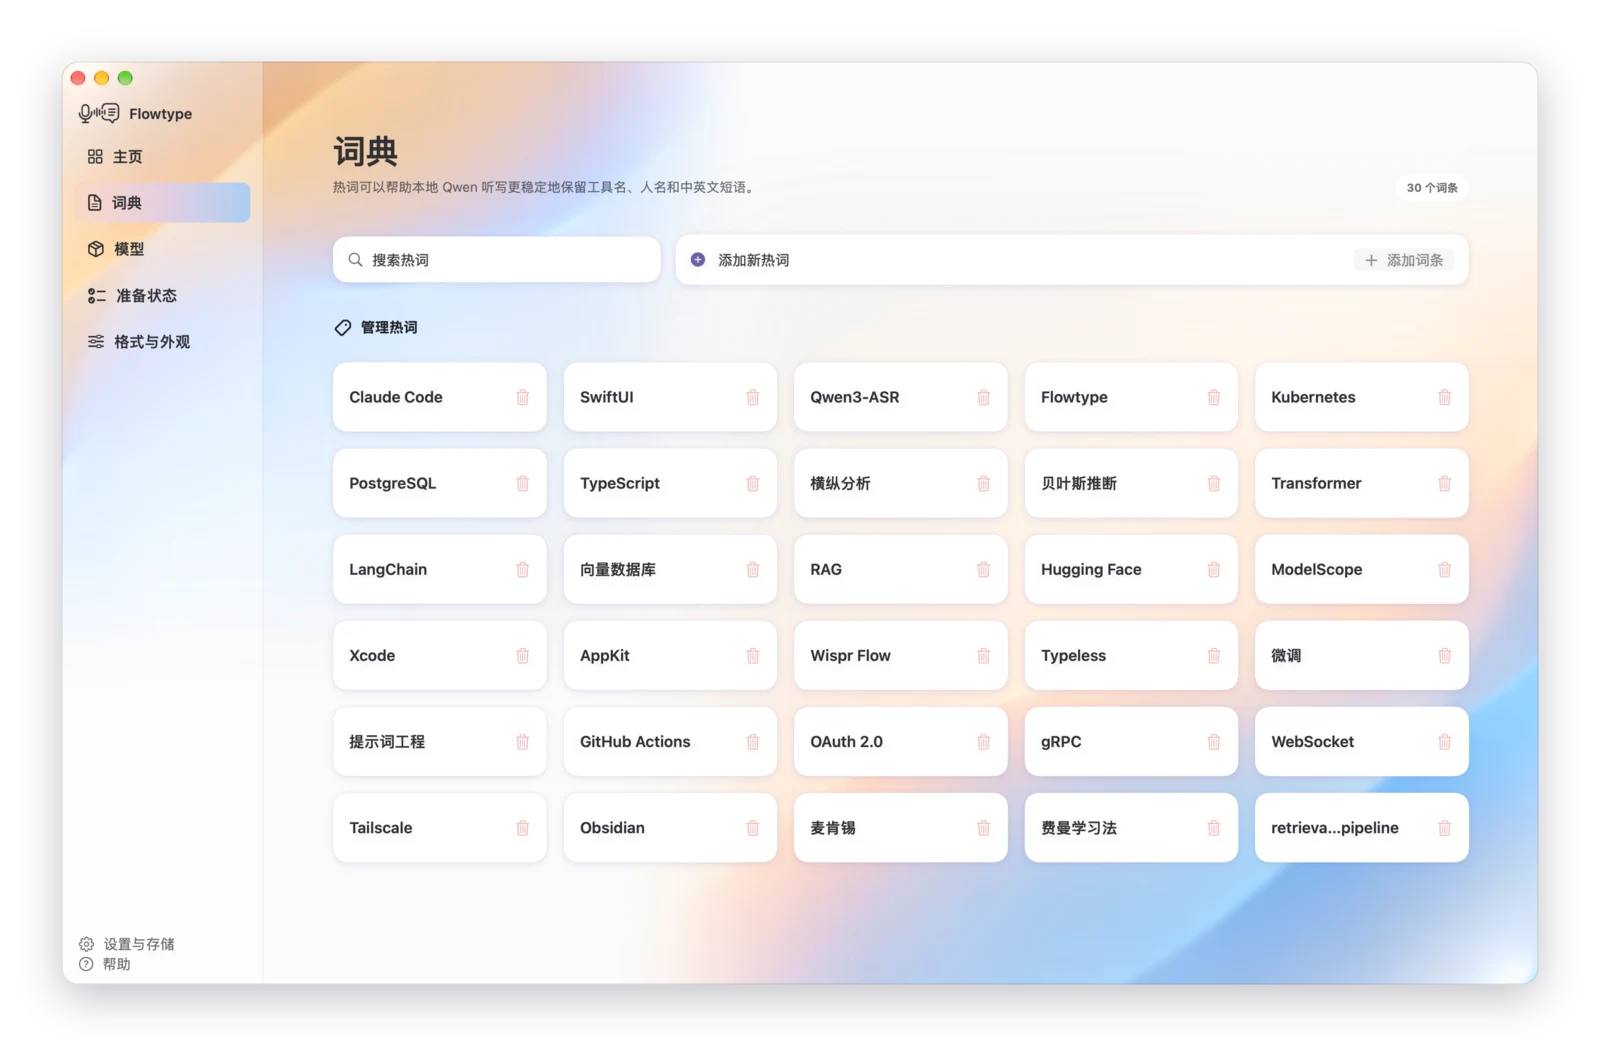
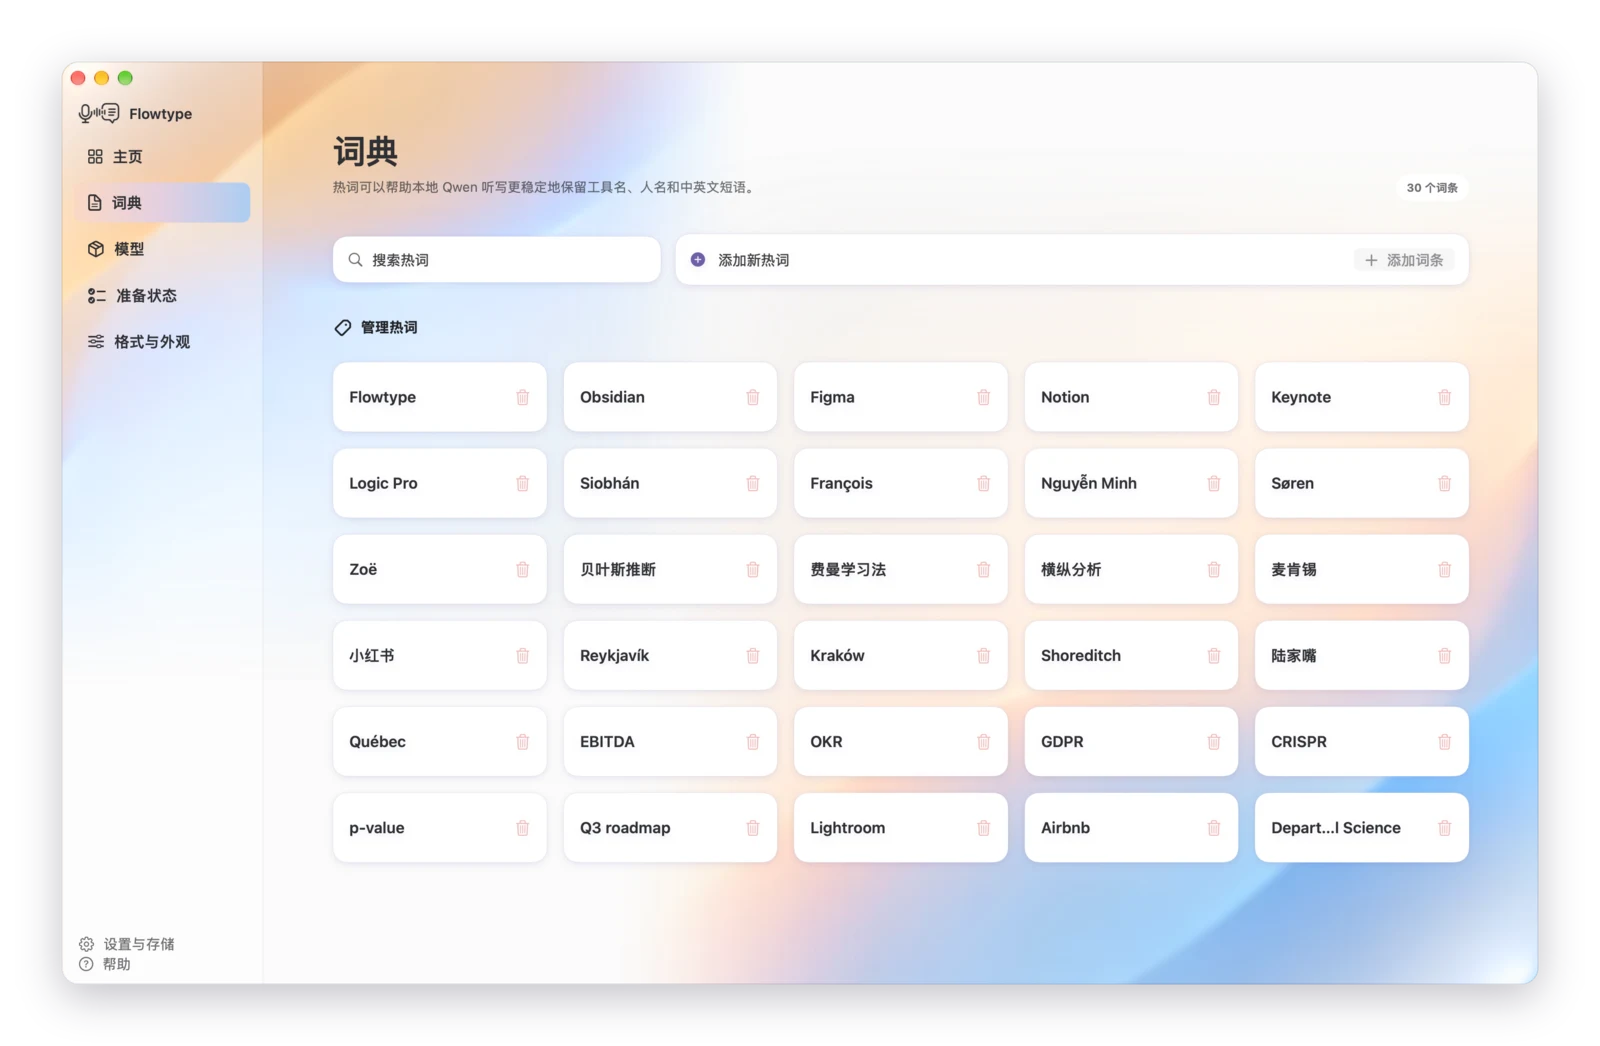
docs: put the final launch films in the READMEs and match their wording
Swap in the final 57 s launch films, lead the hero with Back to flow, say
30+ languages instead of Chinese + English only, use everyday names and
terms on the Dictionary screenshot, and note the Suno music in the films'
provenance. Also removes the Home page subtitle.

diff --git a/Tests/VoiceInputAppTests/UISnapshotRenderTests.swift b/Tests/VoiceInputAppTests/UISnapshotRenderTests.swift
@@ -126,6 +126,8 @@ private enum ReadinessFixture {
 
 private struct FixtureOptions {
     var hasHistory = true
+    /// History with failed, possibly truncated and recovered rows (QA of those row styles).
+    var historyShowsIssues = false
     var hasUsageStats = true
     var hasHotwords = true
     var largeModel: LargeModelFixture = .installed
@@ -181,7 +183,10 @@ private enum MainScreen: CaseIterable {
         case .homeEmpty:
             options.hasHistory = false
             options.hasUsageStats = false
-        case .homeNeedsAttention, .readinessNeedsAttention:
+        case .homeNeedsAttention:
+            options.readiness = .needsAttention
+            options.historyShowsIssues = true
+        case .readinessNeedsAttention:
             options.readiness = .needsAttention
         case .dictionaryEmpty:
             options.hasHotwords = false
@@ -204,7 +209,7 @@ private enum MainScreen: CaseIterable {
         case .homeNeedsAttention:
             return "Home with the prominent readiness card (Microphone permission missing, selected model not installed)."
         case .dictionary:
-            return "Dictionary with 30 mixed Chinese/English hotwords."
+            return "Dictionary with 30 hotwords: names, places and terms in several languages."
         case .dictionaryEmpty:
             return "Dictionary empty state: no hotwords."
         case .dictionaryNoResults:
@@ -1237,7 +1242,7 @@ private final class FixtureEnvironment {
             limit: 100
         )
         if options.hasHistory {
-            try historyStore.save(Self.historyItems())
+            try historyStore.save(Self.historyItems(language: variant.language, showsIssues: options.historyShowsIssues))
         }
 
         let usageStatsURL = directory.appendingPathComponent("usage-stats.json")
@@ -1337,7 +1342,7 @@ private final class FixtureEnvironment {
         return calendar.date(bySettingHour: hour, minute: minute, second: 0, of: day) ?? day
     }
 
-    private static func historyItems() -> [TranscriptHistoryItem] {
+    private static func historyItems(language: UILanguage, showsIssues: Bool) -> [TranscriptHistoryItem] {
         func item(
             _ text: String,
             daysAgo: Int,
@@ -1362,6 +1367,54 @@ private final class FixtureEnvironment {
                 status: status,
                 failureCategory: failure
             )
+        }
+
+        // The launch films open on Home and then explain spoken math, so the default history has math
+        // entries and no status rows: all English for the English interface, mixed Chinese-English
+        // for the Chinese one. The rows with issues are kept for the needs-attention snapshot.
+        if !showsIssues && language == .chinese {
+            return [
+                item("vlog 开头先放 highlight，再慢慢讲故事。", daysAgo: 0, 14, 32, app: "Final Cut Pro", duration: 3.4),
+                item("在最优点，偏导数 ∂f/∂x 等于零。", daysAgo: 0, 14, 18, app: "备忘录", duration: 3.9),
+                item(
+                    "帮我把这个 PR 的 description 改一下，重点写清楚 breaking change 和 migration 步骤。",
+                    daysAgo: 0, 13, 47, app: "GitHub", duration: 7.8
+                ),
+                item("回归模型是 E[Y | X] = β₀ + β₁x，记得报告 slope。", daysAgo: 0, 11, 5, app: "Overleaf", duration: 5.6),
+                item("根据贝叶斯公式，P(A | B) = P(B | A)·P(A)/P(B)。", daysAgo: 0, 10, 26, app: "Obsidian", duration: 4.8),
+                item("先把 hotfix 发出去，refactor 放到下个 sprint 再说。", daysAgo: 0, 9, 41, app: "Linear", duration: 4.6),
+                item("好的，明天十点见。", daysAgo: 1, 21, 16, app: "微信", duration: 1.8),
+                item(
+                    "明天上午十点和设计同步一下首页卡片的方案，顺便确认 dark mode 下的对比度。",
+                    daysAgo: 1, 18, 3, app: "日历", duration: 6.9
+                ),
+                item(
+                    "这个 bug 的 root cause 是 token 在 refresh 之后没有写回 Keychain。",
+                    daysAgo: 3, 16, 40, app: "GitHub", duration: 7.1
+                )
+            ]
+        }
+        if !showsIssues {
+            return [
+                item("Open the vlog with the highlight, then tell the story.", daysAgo: 0, 14, 32, app: "Final Cut Pro", duration: 3.6),
+                item("The partial derivative ∂f/∂x is zero at the optimum.", daysAgo: 0, 14, 18, app: "Notes", duration: 4.2),
+                item(
+                    "Update the PR description: list the breaking changes and the migration steps.",
+                    daysAgo: 0, 13, 47, app: "GitHub", duration: 5.9
+                ),
+                item("Fit the model E[Y | X] = β₀ + β₁x and report the slope.", daysAgo: 0, 11, 5, app: "Overleaf", duration: 5.1),
+                item("By Bayes, P(A | B) = P(B | A)·P(A)/P(B).", daysAgo: 0, 10, 26, app: "Obsidian", duration: 4.4),
+                item(
+                    "Let's ship the hotfix first, then circle back to the refactor next sprint.",
+                    daysAgo: 0, 9, 41, app: "Linear", duration: 5.2
+                ),
+                item("Sounds good, see you at ten tomorrow.", daysAgo: 1, 21, 16, app: "Slack", duration: 2.3),
+                item("Move the design sync to Thursday morning.", daysAgo: 1, 18, 3, app: "Calendar", duration: 2.8),
+                item(
+                    "The root cause is that the refreshed token never gets written back to the Keychain.",
+                    daysAgo: 3, 16, 40, app: "GitHub", duration: 6.2
+                )
+            ]
         }
 
         return [
@@ -1414,12 +1467,12 @@ private final class FixtureEnvironment {
     }
 
     private static let hotwords = [
-        "Claude Code", "SwiftUI", "Qwen3-ASR", "Flowtype", "Kubernetes", "PostgreSQL",
-        "TypeScript", "横纵分析", "贝叶斯推断", "Transformer", "LangChain", "向量数据库",
-        "RAG", "Hugging Face", "ModelScope", "Xcode", "AppKit", "Wispr Flow",
-        "Typeless", "微调", "提示词工程", "GitHub Actions", "OAuth 2.0", "gRPC",
-        "WebSocket", "Tailscale", "Obsidian", "麦肯锡", "费曼学习法",
-        "retrieval-augmented generation pipeline"
+        "Flowtype", "Obsidian", "Figma", "Notion", "Keynote", "Logic Pro",
+        "Siobhán", "François", "Nguyễn Minh", "Søren", "Zoë", "贝叶斯推断",
+        "费曼学习法", "横纵分析", "麦肯锡", "小红书", "Reykjavík", "Kraków",
+        "Shoreditch", "陆家嘴", "Québec", "EBITDA", "OKR", "GDPR",
+        "CRISPR", "p-value", "Q3 roadmap", "Lightroom", "Airbnb",
+        "Department of Statistical Science"
     ]
 
     /// Mirrors the ids, titles and details the app's readiness inspectors

diff --git a/Sources/VoiceInputApp/App/AppCopy.swift b/Sources/VoiceInputApp/App/AppCopy.swift
@@ -28,7 +28,6 @@ enum AppCopy {
         let settingsTitle: String
         let helpTitle: String
         let mainHeadline: String
-        let mainSubtitle: String
         let todayTitle: String
         let yesterdayTitle: String
         let olderTitle: String
@@ -960,7 +959,6 @@ enum AppCopy {
                 settingsTitle: "设置与存储",
                 helpTitle: "帮助",
                 mainHeadline: "回到心流 - Flowtype",
-                mainSubtitle: "本地优先的听写工具，适合提示词、笔记和中英文混合开发术语。",
                 todayTitle: "今天",
                 yesterdayTitle: "昨天",
                 olderTitle: "更早",
@@ -1173,7 +1171,6 @@ enum AppCopy {
                 settingsTitle: "Settings & Storage",
                 helpTitle: "Help",
                 mainHeadline: "Back to Flow - Flowtype",
-                mainSubtitle: "Local-first dictation for prompts, notes, and mixed Chinese-English developer terms.",
                 todayTitle: "Today",
                 yesterdayTitle: "Yesterday",
                 olderTitle: "Older",

diff --git a/Sources/VoiceInputApp/MainWindow/HomeView.swift b/Sources/VoiceInputApp/MainWindow/HomeView.swift
@@ -72,10 +72,6 @@ struct HomeView: View {
                     .lineLimit(2)
                     .foregroundStyle(theme.ink)
 
-                Text(copy.mainSubtitle)
-                    .scaledFont(.callout)
-                    .foregroundStyle(theme.secondaryInk)
-
                 if readinessPresentation.showsInlineStatus {
                     Label(
                         readinessInlineTitle(for: readinessPresentation, copy: copy),

diff --git a/README.md b/README.md
@@ -1,5 +1,5 @@
 <p align="center">
-  <img src="website/assets/readme/hero-en.webp" alt="Flowtype icon and tagline: Hold Fn. Speak. It lands at your cursor. Recognised on your Mac · Chinese + English · Spoken math · Free and open source" width="100%">
+  <img src="website/assets/readme/hero-en.webp" alt="Flowtype icon and tagline: Back to flow. Hold Fn, speak, and your words land at the cursor. Recognised on your Mac · 30+ languages · Spoken math · Free and open source" width="100%">
 </p>
 
 <p align="center">
@@ -21,10 +21,10 @@
 > [!NOTE]
 > This is a Preview. The DMG uses an ad-hoc local development signature: it is **not signed with an Apple Developer ID and not notarized by Apple**. macOS blocks the first launch until you choose Open Anyway in System Settings → Privacy & Security; see the [first-launch guide](#first-launch).
 
-Flowtype is a local-first macOS dictation app. Hold `Fn` and speak; release it, and Flowtype transcribes on this Mac and places the whole sentence at the cursor of the app you were using. It is built for the way people actually talk: Chinese mixed with English, and even formulas read aloud.
+Flowtype is a local-first macOS dictation app. Hold `Fn` and speak; release it, and Flowtype transcribes on this Mac and places the whole sentence at the cursor of the app you were using. It is built for the way people actually talk: switching languages mid-sentence, and even reading formulas aloud.
 
-<!-- LAUNCH VIDEO: the Flowtype Dawn launch film (46 s), uploaded to GitHub so it plays inline. -->
-https://github.com/user-attachments/assets/c47dff55-9d5c-43d2-87d0-e889167f62b1
+<!-- LAUNCH VIDEO: the Flowtype Dawn launch film (57 s), uploaded to GitHub so it plays inline. -->
+https://github.com/user-attachments/assets/09bc39c4-82a5-4478-8113-4ec3915bf8c1
 
 ## How it works
 
@@ -48,14 +48,14 @@ These are the author's own everyday numbers as of 2026-10-12: **21,578 dictation
 
 <sub>Typing time is estimated at 55 Chinese characters or 35 English words per minute, minus the speaking time. Chinese is counted by character, English by word.</sub>
 
-## Chinese and English in one breath
+## 30+ languages, mixed freely
 
-Real speech is rarely one language at a time. Flowtype recognises mixed Chinese and English with Qwen3-ASR running on your Mac, so you can switch languages mid-sentence without switching modes.
+Real speech is rarely one language at a time. Flowtype runs Qwen3-ASR on your Mac and never locks you into one language: the model works out what you are speaking, across 30+ languages and 22 Chinese dialects. Switch languages mid-sentence, for example English inside Chinese, without switching modes.
 
 Names and terms that must be written a particular way, such as a product name, a colleague's name or a word from your field, may not come out as you want on their own. Add each one to the **Dictionary** exactly as you want it written. Flowtype passes those entries to the local model as context, so they are much more likely to come out in your spelling and capitalisation.
 
 <p align="center">
-  <img src="website/assets/readme/dictionary-en.webp" alt="The Flowtype Dictionary page listing hotwords such as SwiftUI, Qwen3-ASR and PostgreSQL" width="100%">
+  <img src="website/assets/readme/dictionary-en.webp" alt="The Flowtype Dictionary page listing names, places and terms such as Siobhán, Kraków and 贝叶斯推断" width="100%">
 </p>
 
 ## Say it. Get the formula.

diff --git a/README.zh-CN.md b/README.zh-CN.md
@@ -1,5 +1,5 @@
 <p align="center">
-  <img src="website/assets/readme/hero-zh.webp" alt="Flowtype 图标和标语：按住 Fn，说话就落到光标处。在你的 Mac 上识别 · 中英混合 · 口述数学公式 · 免费开源" width="100%">
+  <img src="website/assets/readme/hero-zh.webp" alt="Flowtype 图标和标语：回到心流。按住 Fn 说话，文字直接落在光标处。在你的 Mac 上识别 · 中英混合输入 · 口述数学公式 · 免费开源" width="100%">
 </p>
 
 <p align="center">
@@ -23,8 +23,8 @@
 
 Flowtype 是一款 local-first 的 macOS 听写工具。按住 `Fn` 说话，松开后在这台 Mac 上完成转写，整句话直接出现在你正在用的 App 的光标处。它专门为真实的说话方式而做：中文夹着 English，甚至直接念公式。
 
-<!-- LAUNCH VIDEO: the Flowtype Dawn launch film (46 s), uploaded to GitHub so it plays inline. -->
-https://github.com/user-attachments/assets/a02efe18-7871-41bb-b640-e76a295055bf
+<!-- LAUNCH VIDEO: the Flowtype Dawn launch film (57 s), uploaded to GitHub so it plays inline. -->
+https://github.com/user-attachments/assets/1422522b-5274-48fd-ae4e-22315114ab29
 
 ## 怎么用
 
@@ -48,14 +48,14 @@ https://github.com/user-attachments/assets/a02efe18-7871-41bb-b640-e76a295055bf
 
 <sub>打字时间是估算：中文按每分钟 55 字、英文按每分钟 35 词计算，再减去说话时间。中文按字计，英文按词计。</sub>
 
-## 中英混着说
+## 中英混合输入，30+ 种语言
 
-日常说话很少是纯中文或纯英文。Flowtype 用在本机运行的 Qwen3-ASR 识别中英混合语音，一句话里随时换语言，不用切换模式。
+日常说话很少是纯中文或纯英文。Flowtype 用在本机运行的 Qwen3-ASR 识别语音，不锁定语言，由模型自己判断你说的是哪种，支持 30+ 种语言和 22 种中文方言。一句话里随时换语言，比如中文夹着 English，不用切换模式。
 
 产品名、人名、专业词这类要按特定写法出现的词，直接说不一定能写成你想要的样子。把它们按你想要的写法加进**词典**，Flowtype 会在识别时把这些词作为上下文交给本地模型，写法和大小写就更容易照你的来。
 
 <p align="center">
-  <img src="website/assets/readme/dictionary-zh.webp" alt="Flowtype 词典页面，列出 SwiftUI、Qwen3-ASR、PostgreSQL 等热词" width="100%">
+  <img src="website/assets/readme/dictionary-zh.webp" alt="Flowtype 词典页面，列出 Siobhán、Kraków、贝叶斯推断等人名、地名和专业词" width="100%">
 </p>
 
 ## 说出来，就是公式

diff --git a/ASSET_PROVENANCE.md b/ASSET_PROVENANCE.md
@@ -50,13 +50,15 @@ renders of the recording capsule and onboarding welcome picture, and text. The
 251 hours 37 minutes estimated saved), which the owner chose to publish; no
 transcript content is shown. No new generated imagery was added.
 
-The launch films linked near the top of both READMEs (English and Chinese, 46 s
-each) are hosted as GitHub attachments, not stored in this repository. They were
-rendered entirely in code by the project owner's motion-graphics pipeline (WebGL
-and Canvas2D in headless Chrome, a procedurally synthesized score, ffmpeg) from the
-same project-owned material: the Flowtype Dawn backdrop, app icon, interface
-screenshots and the real usage figures above. No stock footage, generated video,
-voice or third-party music is used.
+The launch films linked near the top of both READMEs (English and Chinese, 57 s
+each) are hosted as GitHub attachments, not stored in this repository. Their
+picture was rendered entirely in code by the project owner's motion-graphics
+pipeline (WebGL and Canvas2D in headless Chrome, ffmpeg) from the same
+project-owned material: the Flowtype Dawn backdrop, app icon, interface
+screenshots and the real usage figures above. No stock footage, generated video or
+voice is used. The music is the opening of "Launch Impact", a track the project
+owner generated with Suno on a paid plan; it is used unedited and is not part of
+this repository or of its GPL-3.0 grant.
 
 ## App Icon
 
